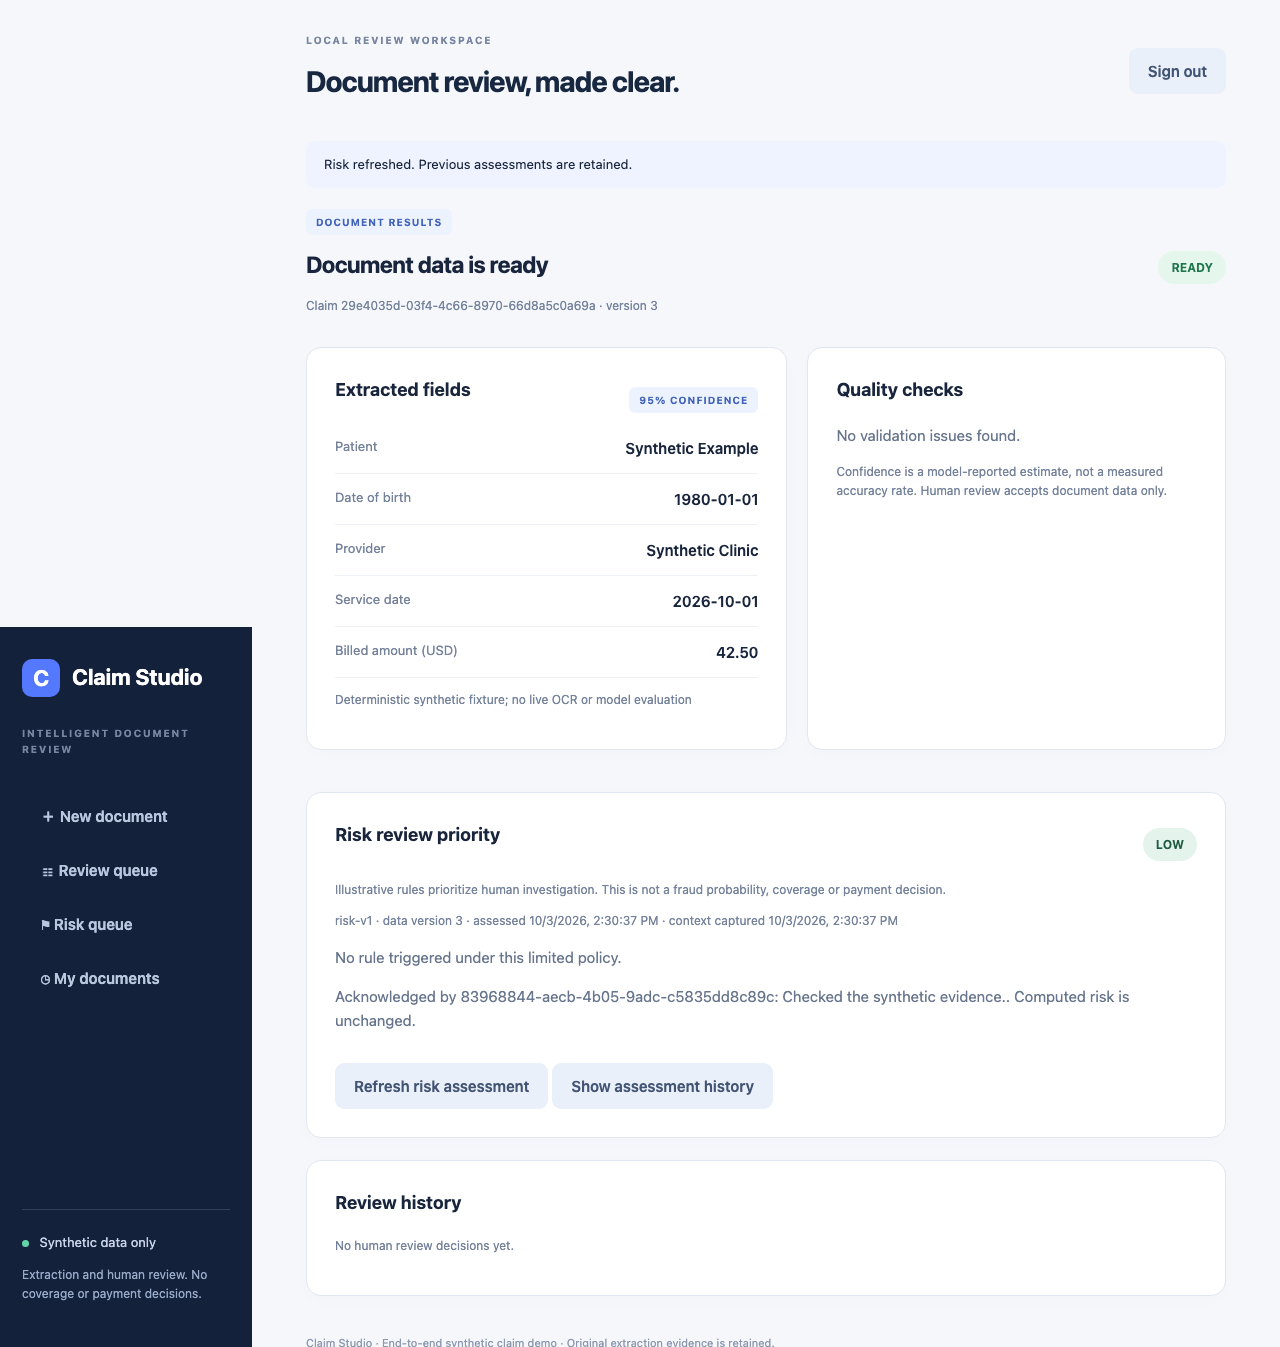
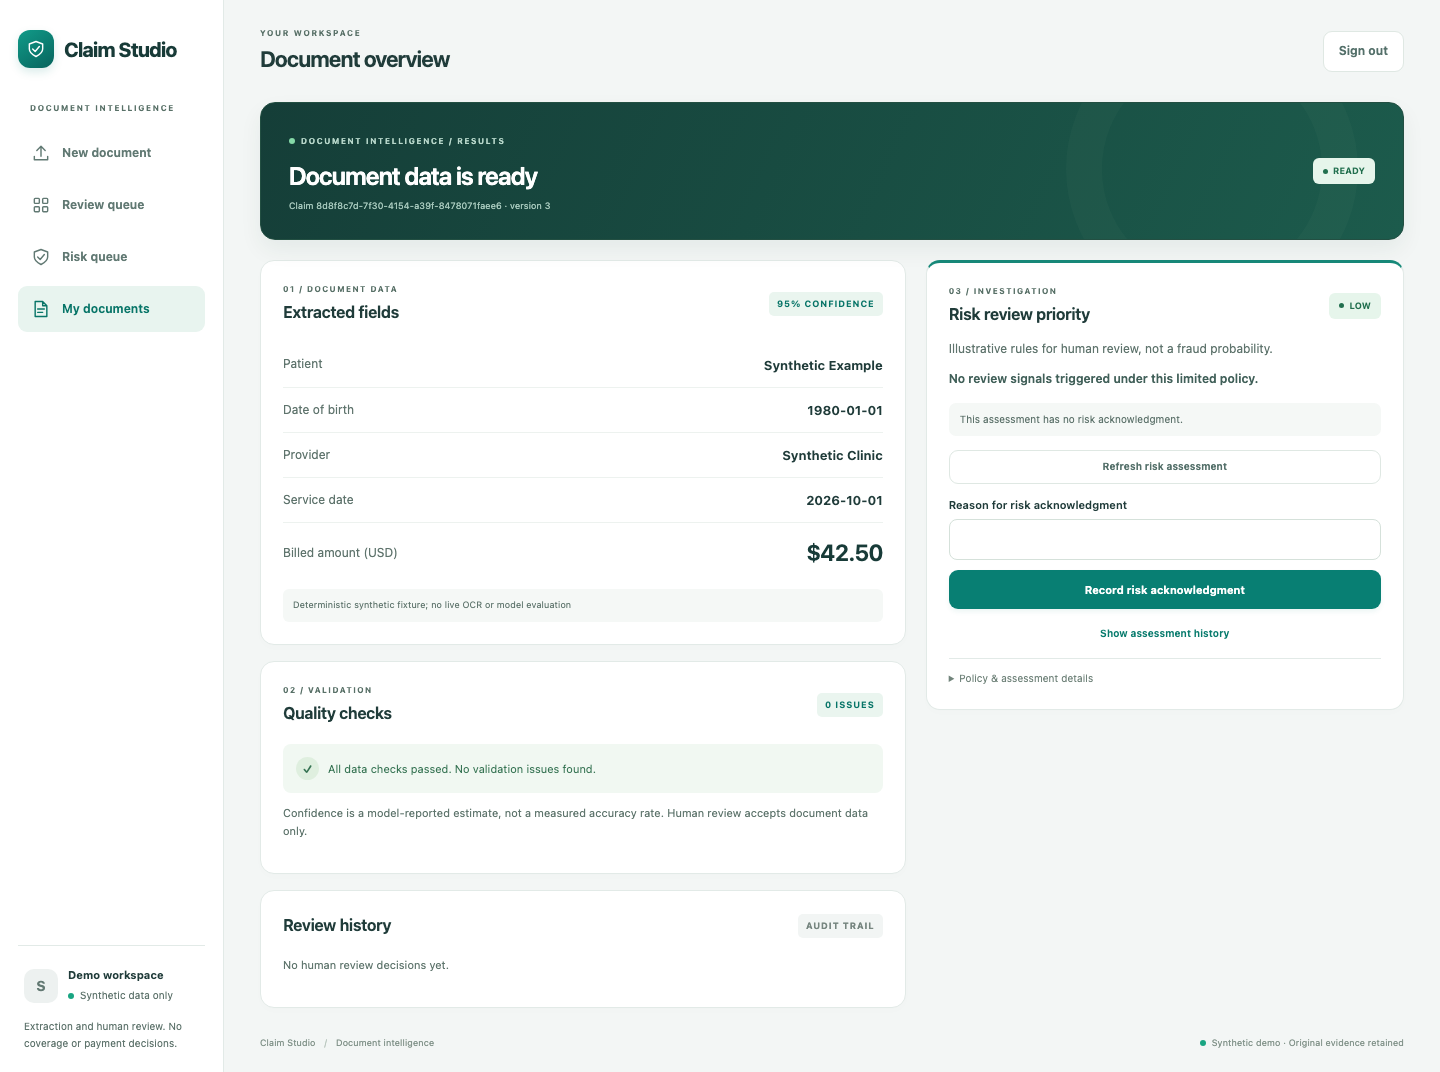
docs: refresh recruiter screenshots and reviewer walkthrough

diff --git a/docs/interface.md b/docs/interface.md
@@ -37,12 +37,27 @@ Fixture mode (`SYNTHETIC_MODE=true`) accepts only byte-identical versioned sampl
 from `samples/manifest.json`. It does not call Azure or an LLM. Complete, missing
 amount/low-confidence, and permanent provider-failure scenarios are labeled.
 Live mode (`false`, default outside compose) uses the configured providers; its
-actual behavior is not claimed by fixture checks. Corpus dates are fixed to
-2026-10-01; deterministic age/date rules will eventually flag those dates as old.
+actual behavior is not claimed by fixture checks. Synthetic date validation uses the manifest reference date recorded in provenance;
+live processing uses the actual date.
 
 The interface uses plain HTML/CSS/JavaScript served by FastAPI, bounded forms,
 keyboard-accessible controls, visible loading/failed states, and textContent for
 untrusted output. CSP permits only same-origin assets and forbids framing.
+
+## Review workspace layout
+
+The document summary shows processing state and links directly to the data review
+when a decision is needed. Desktop results place extracted data, validation and
+review evidence on the left, with risk investigation and data decisions on the
+right. Mobile stacks those sections and keeps all four navigation choices visible.
+Amounts use currency formatting for display; stored values and review inputs retain
+exact decimal semantics. Policy timestamps and acknowledgment actor details remain
+available under **Policy & assessment details**. Raw before/after audit snapshots
+use a bounded scroll area so opening evidence does not overwhelm the workspace.
+
+Keyboard focus is visible, active navigation uses `aria-current`, busy submissions
+use `aria-busy`, and signed-out workspace controls are disabled. Screenshots are
+captured at a consistent 1440px desktop width with the page at the top.
 
 ## Browser verification
 
@@ -55,9 +70,11 @@ uv run --locked python -m scripts.check_browser
 ```
 
 The launcher starts separate API and worker processes on loopback port 8047 and
-runs Chromium through login, upload, complete results, correction/audit, rejection,
-failure/retry, listing, and logout. Its dedicated test DB must not contain
-real/user data. It removes demo smoke records and session rows after completion.
+runs four Chromium workflows covering login, upload, complete results,
+correction/audit, rejection, failure/retry, scoped duplicates, risk investigation,
+and logout. The mobile workflow checks investigation/acknowledgment, data approval,
+queue navigation, and horizontal overflow at 390px. Its dedicated test DB must
+not contain real/user data. It removes demo smoke records and session rows after completion.
 Screenshots show this actual fixture flow, not a proposed interface:
 
 ![Results](screenshots/results.png)

diff --git a/README.md b/README.md
@@ -37,7 +37,7 @@ audited reviewer workspace.
 > A public deployment would additionally require a hosting target, HTTPS ingress,
 > and environment-specific configuration; those have not been provisioned or verified.
 
-![Claim Studio results from an actual browser smoke check](docs/screenshots/results.png)
+![Claim Studio: extracted data, quality checks, and risk investigation](docs/screenshots/results.png)
 
 ## What it does
 
@@ -51,7 +51,12 @@ INSUFFICIENT_DATA** assessment. Reviewers see the triggered rules, refresh dupli
 context, investigate a prioritized risk queue, and acknowledge a specific assessment
 with a reason. Corrections create new assessments while preserving prior evidence.
 
+<details>
+<summary>See the high-risk investigation workflow</summary>
+
 ![HIGH risk with explainable reasons and independent acknowledgment](docs/screenshots/risk.png)
+
+</details>
 
 Risk is **human review priority** under an illustrative rules policy. It is not a
 fraud probability; LOW does not establish absence of fraud. Data approval and risk
@@ -174,7 +179,7 @@ worker-process crash/restart, Chromium upload/review flows, and full Docker
 persistence plus paired database/upload restore. CI runs setup, lint/docs/unit,
 PostgreSQL/migrations, browser, and container checks. Evidence and release details
 are in [verification](docs/verification/) and [risk release notes](docs/releases/risk-v1.md).
-The risk release passed **303 Python tests**, **three Chromium workflows**, and
+The current project verification includes **303 Python tests**, **four Chromium workflows**, and
 **11 Docker migration/restart/restore checks**. Six declared synthetic scenarios
 match the policy; this measures rule conformance, not predictive fraud accuracy.
 
